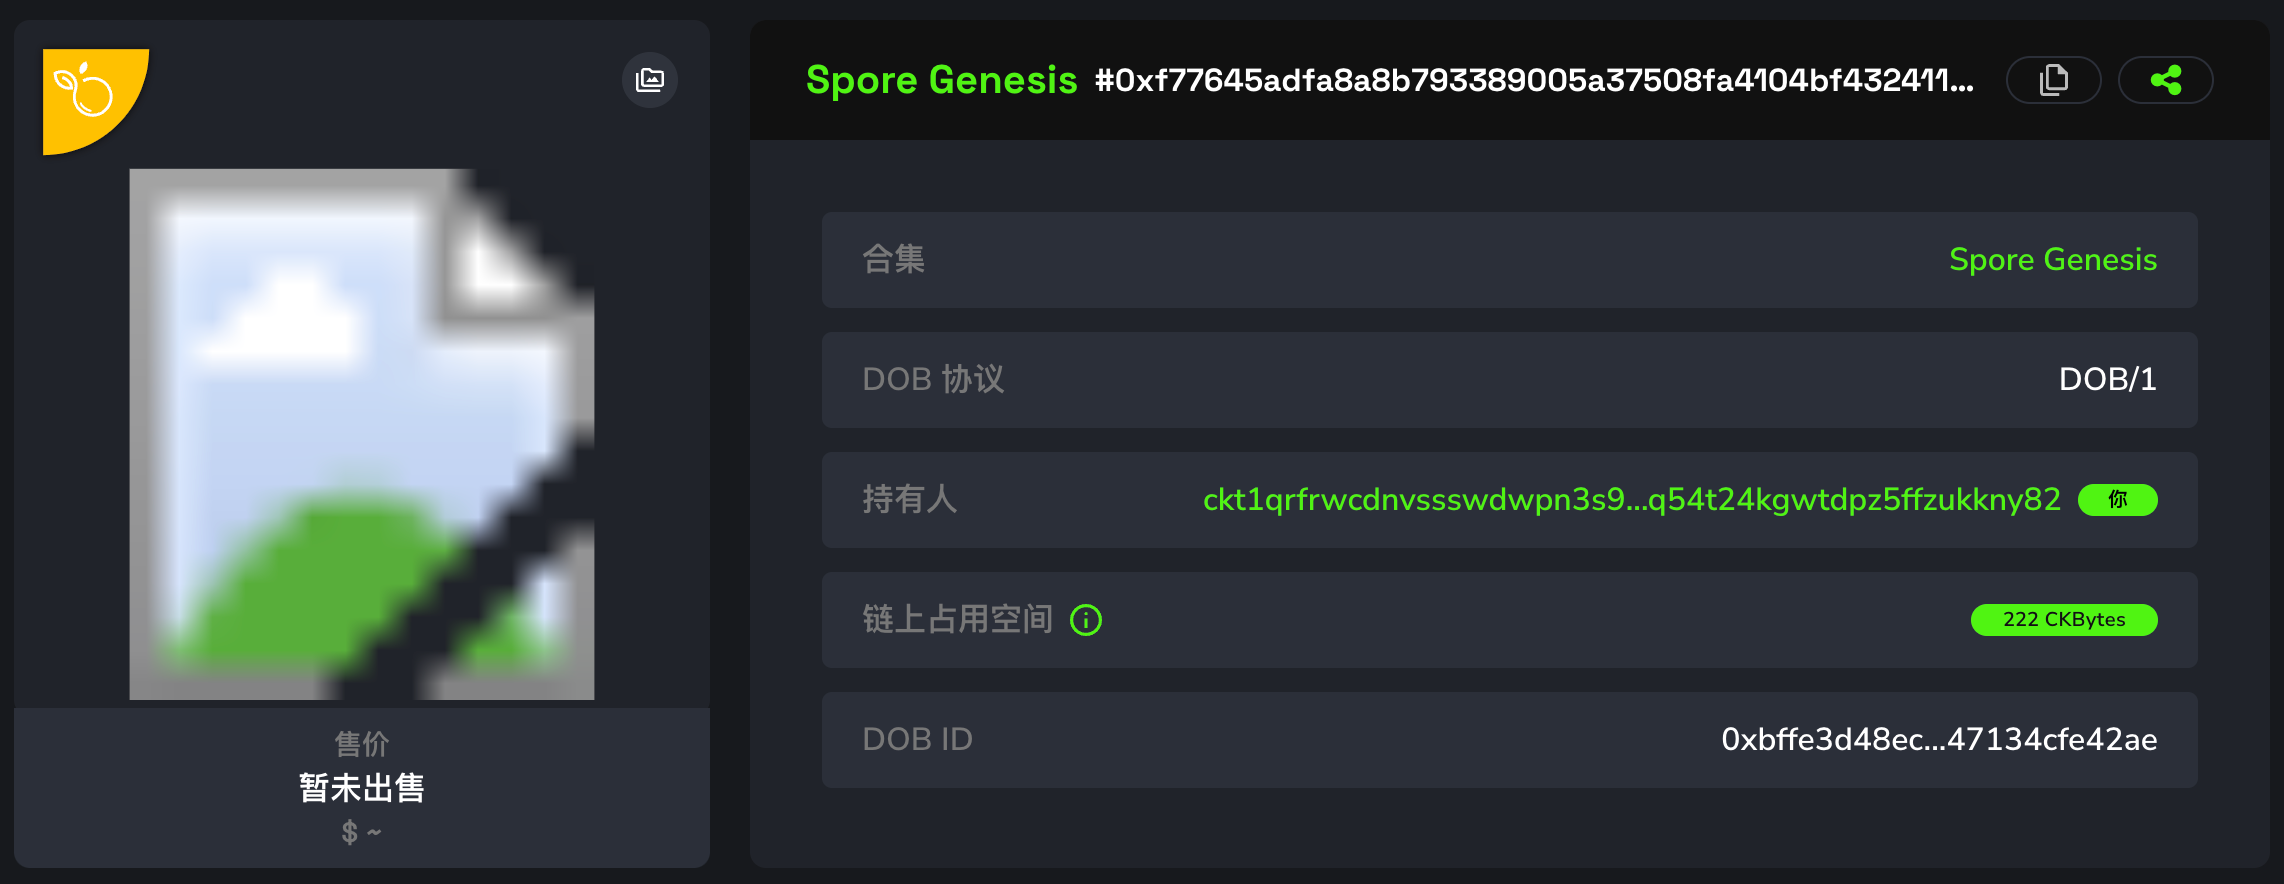
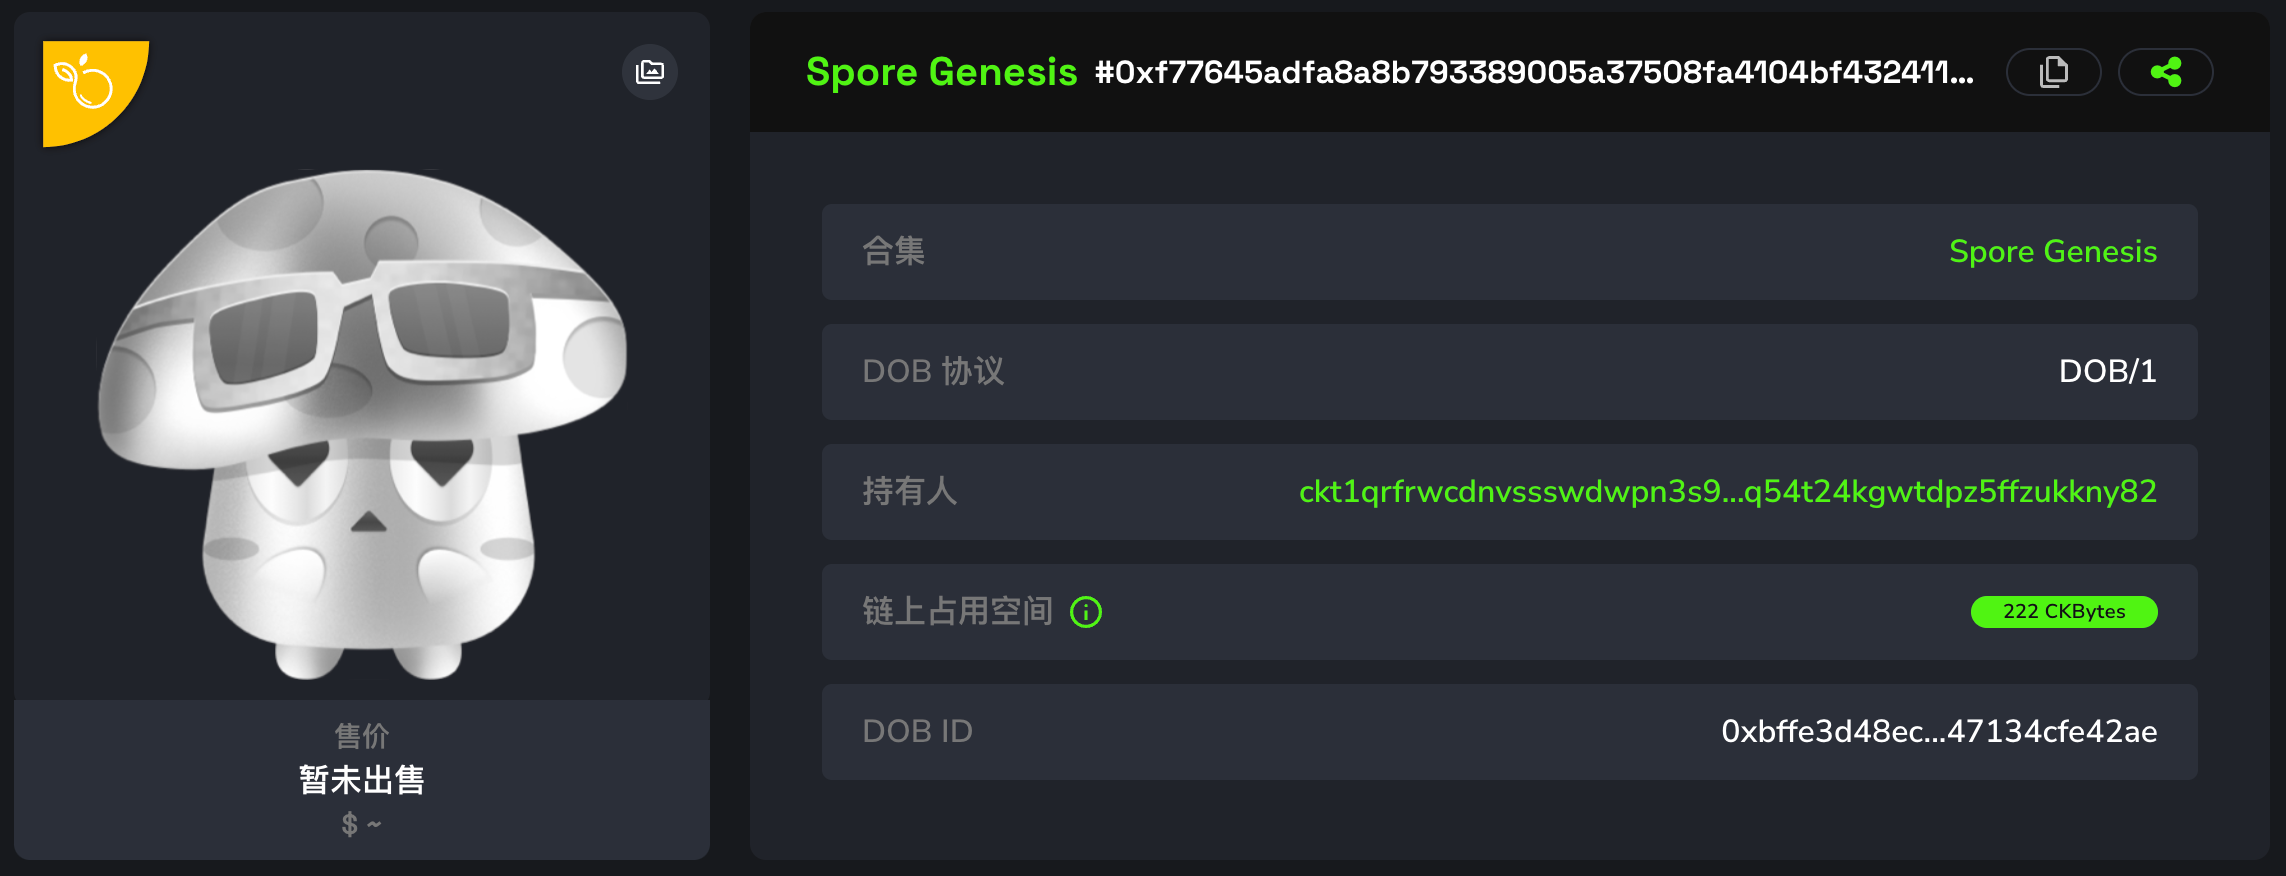
fix: update explorer url, update spore-genesis render result

diff --git a/examples/dob1/1.spore-genesis(svg_bg_btcfs_icon).md b/examples/dob1/1.spore-genesis(svg_bg_btcfs_icon).md
@@ -148,9 +148,9 @@ You can also open and edit the code online in [ccc-playground](https://live.ckbc
[2 lines of base64/hex data omitted]
 
-- 👉[🔗 mintSpore tx](https://testnet.explorer.nervos.org/transaction/0x79f9d34d229c8e8343ad0c84952dca9e681c01c52e57e7ce017c0ebe27ec6a28)
+- 👉[🔗 mintSpore tx](https://testnet.explorer.nervos.org/transaction/0x92ad2c1f4dc4e7a925d813cab79d0b83f3d547dbb4f1375d0a38a8c3fd81dfed)
[3 lines of base64/hex data omitted]
 
 ### Mainnet
 - 👉[🔗 createCluster tx](https://explorer.nervos.org/transaction/0x83d296f7b6e9a9817a64c38e2dc8e50a9674c2f6bd626707c91ceac6f8ff66ae)
@@ -175,7 +175,7 @@ You can also open and edit the code online in [ccc-playground](https://live.ckbc
 
 ![1.spore-genesis(svg_bg_btcfs_icon)-omiga.png](../assets/images/dob1/1.spore-genesis(svg_bg_btcfs_icon)-omiga.png)
 
-[View on Omiga](https://test.omiga.io/info/dobs/0x4b96e21825674147aad632c24b1e9b41eb865781032ce77d27390fa626dc8797) 
+[View on Omiga](https://test.omiga.io/info/dobs/0xbffe3d48ec318b1387c5dc0d2854d0b34d6981350343fc1bf3aa47134cfe42ae) 
 
 ### Mobit
 ![1.spore-genesis(svg_bg_btcfs_icon)-mobit.png](../assets/images/dob1/1.spore-genesis(svg_bg_btcfs_icon)-mobit.png)

diff --git a/examples/dob1/0.basic-shape.md b/examples/dob1/0.basic-shape.md
@@ -200,7 +200,7 @@ You can also open and edit the code online in [ccc-playground](https://live.ckbc
 
 ### Explorer
 ![0.basic-shape-explorer.png](../assets/images/dob1/0.basic-shape-explorer.png)
-[View on CKB Explorer](https://testnet.explorer.nervos.org/nft-info/0xfa91828e4085425048e4aeacf7441cb3ebc56b3c6b7a2b77e83066567bf225dd/0x638af6b3ca36b88232b9d3ce46898f52f10b2308f2ce466776de641959171d0b) 
+[View on CKB Explorer](https://testnet.explorer.nervos.org/nft-info/0xe55557af70bd7912364a1ea87c42a1e85fd6e886c5070f86f3a075bda8fd70ec/0x638af6b3ca36b88232b9d3ce46898f52f10b2308f2ce466776de641959171d0b) 
 
 
 ## Compatibility
